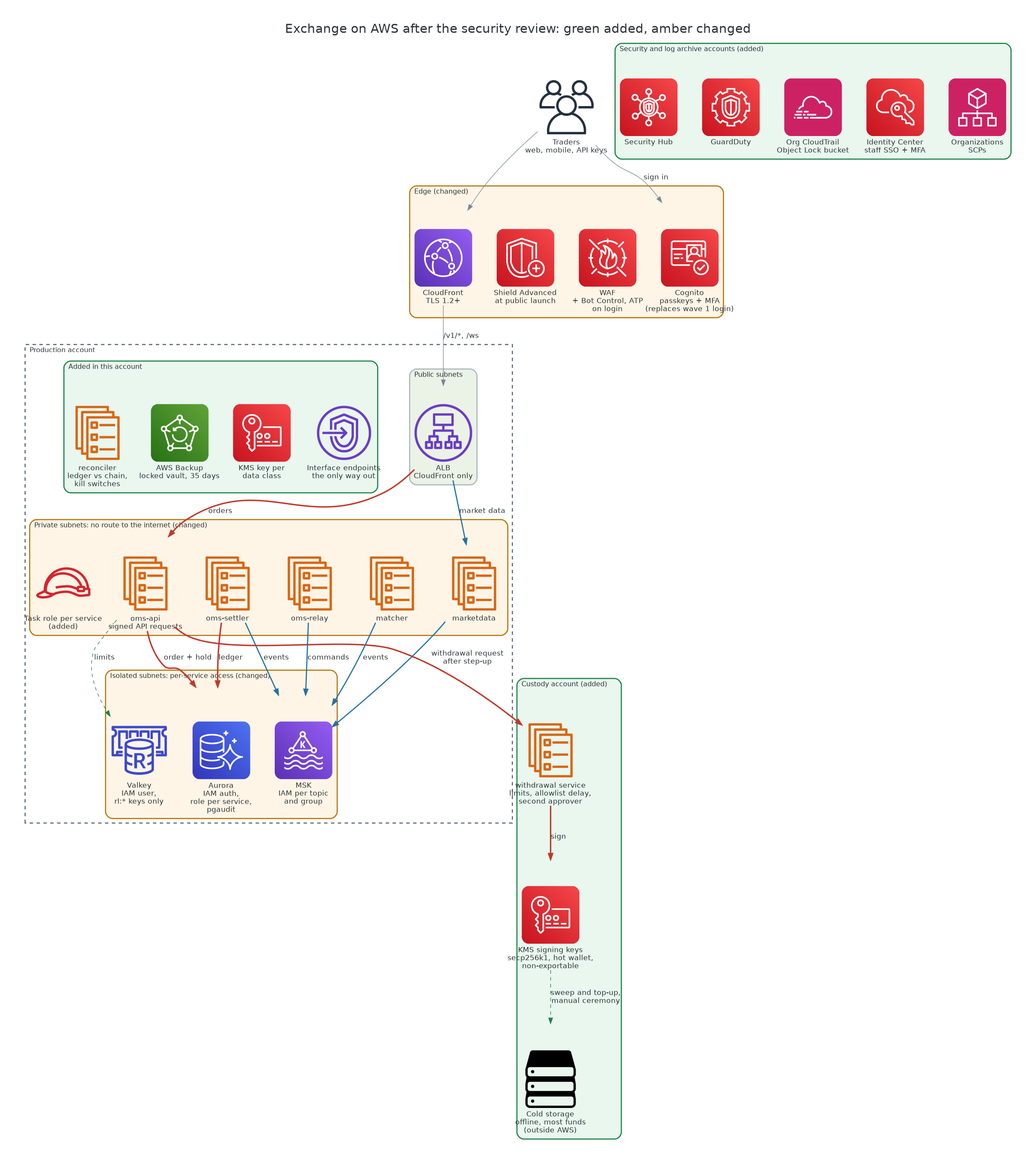
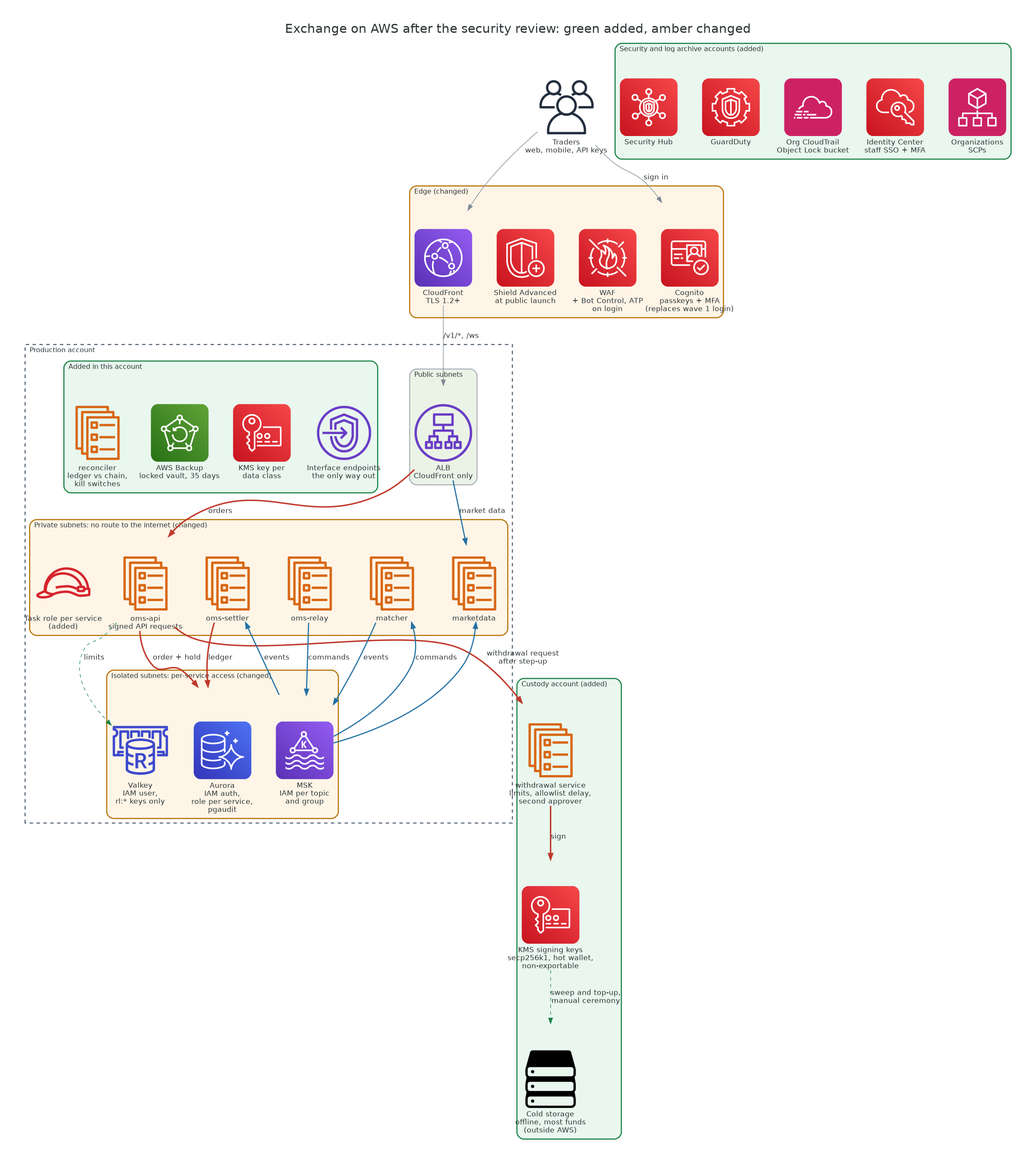
Report the Problem 5 review fixes
Open balance gap and its checks; endpoint and DNS limits; consumers drawn as readers.

diff --git a/src/problem5/diagrams/secure.py b/src/problem5/diagrams/secure.py
@@ -15,7 +15,7 @@ GRAPH = {"fontsize": "22", "fontname": "DejaVu Sans", "pad": "0.5", "nodesep": "
          "ranksep": "0.9", "splines": "spline", "labelloc": "t"}
 NODE = {"fontsize": "13", "fontname": "DejaVu Sans"}
 EDGE = {"fontsize": "11", "fontname": "DejaVu Sans"}
-# Fill marks what the review did: green added, amber changed, grey accepted.
+# Fill marks what the review did: green added, amber changed.
 ADDED = {"bgcolor": "#e9f7ef", "pencolor": "#1e8449", "penwidth": "2"}
 CHANGED = {"bgcolor": "#fef5e7", "pencolor": "#b9770e", "penwidth": "2"}
 ACCOUNT = {"bgcolor": "#ffffff", "pencolor": "#5d6d7e", "penwidth": "2", "style": "dashed"}
@@ -88,10 +88,11 @@ with Diagram("Exchange on AWS after the security review: green added, amber chan
     api >> money("order + hold") >> aurora
     api >> control("limits") >> cache
     relay >> events("commands") >> msk
-    matcher >> events("events", dir="both") >> msk
-    settler >> events("events", dir="back") >> msk
+    msk >> events("commands") >> matcher
+    matcher >> events("events") >> msk
+    msk >> events("events") >> settler
     settler >> money("ledger") >> aurora
-    md >> events(dir="back") >> msk
+    msk >> events() >> md
 
     api >> money("withdrawal request\nafter step-up") >> withdraw
     withdraw >> money("sign") >> hsm

diff --git a/src/problem5/SOLUTION.md b/src/problem5/SOLUTION.md
@@ -7,12 +7,12 @@ the fixes folded into the design. Each change is marked:
 - **Added:** new.
 - **Accepted:** the risk is left as it is, with the reason.
 
-| Part                                                                         | State                                                                                                                                                                            |
-| ---------------------------------------------------------------------------- | -------------------------------------------------------------------------------------------------------------------------------------------------------------------------------- |
-| Network, data tier and per-service identity ([Terraform](../problem1/infra)) | Built and tested on a mocked AWS provider: 15 tests, 27 deliberate breaks all caught. Checkov findings drop from 23 to 7, each skipped on its resource with a reason (section 6) |
-| Ledger roles ([sql/roles.sql](sql/roles.sql))                                | Built and tested against Problem 1's real migrations: of 9 ledger attacks, wave 1's role succeeds at 6 and the restricted role at none (section 6)                               |
-| Accounts, identity, edge, custody, detection                                 | Designed here; not built                                                                                                                                                         |
-| Supply chain: OIDC, pinned actions, signed images, scans                     | Already done in [Problem 4](../problem4/SOLUTION.md) and the Problem 1 CI; not repeated                                                                                          |
+| Part                                                                         | State                                                                                                                                                                                                                               |
+| ---------------------------------------------------------------------------- | ----------------------------------------------------------------------------------------------------------------------------------------------------------------------------------------------------------------------------------- |
+| Network, data tier and per-service identity ([Terraform](../problem1/infra)) | Built and tested on a mocked AWS provider: 15 tests and 4 custom Checkov rules. 37 deliberate breaks, each caught (`make infra-breaks`). Checkov findings drop from 23 to 7, each skipped on its resource with a reason (section 6) |
+| Ledger roles ([sql/roles.sql](sql/roles.sql))                                | Built and tested against Problem 1's real migrations, applied by an Aurora-style master that is not a superuser. Of 9 ledger attacks, wave 1's role gets through 6 and the service roles none (section 6)                           |
+| Accounts, identity, edge, custody, detection                                 | Designed here; not built                                                                                                                                                                                                            |
+| Supply chain: OIDC, pinned actions, signed images, scans                     | Already done in [Problem 4](../problem4/SOLUTION.md) and the Problem 1 CI; not repeated                                                                                                                                             |
 
 ## 1. The updated architecture
 
@@ -72,17 +72,22 @@ Those remain.
 4. **Separate accounts, SSO for staff, and an organisation CloudTrail that nobody can
    edit.** Every incident review starts from that trail. (5.1, 5.8)
 5. **Services stop using the database owner, and each service gets only its own topics and
-   keys.** This is built. (5.4, 5.5)
-6. **No route from the tasks to the internet.** A compromised task cannot send data out or
-   fetch a second stage. This is built. (5.3)
+   keys.** The Terraform and SQL are built; the services' IAM token signers are next. (5.4, 5.5)
+6. **No route from the tasks to the internet, and endpoints that serve only this account.**
+   A compromised task cannot reach an outside server or another account's bucket. This is
+   built. (5.3)
 
 ### Next, in this order
 
 1. Shield Advanced and WAF Bot Control before public launch (5.3).
-2. Signed API keys with scopes, for programmatic traders (5.2).
-3. Locked, cross-region backups (5.8): the in-region locked vault is built.
-4. A price band on market orders (5.7).
-5. An external penetration test, then a bug bounty.
+2. Balances derived from the journal by an owner-run trigger, so no service can update a
+   balance directly; measured against settlement latency first (5.4).
+3. Signed API keys with scopes, for programmatic traders (5.2).
+4. Route 53 Resolver DNS Firewall, which closes DNS tunnelling (5.3).
+5. Backup copies in a separate account under its own key (5.8); the in-region locked vault
+   is built.
+6. A price band on market orders (5.7).
+7. An external penetration test, then a bug bounty.
 
 ### Deferred, with the reason
 
@@ -127,38 +132,57 @@ Those remain.
 
 ### 5.3 Edge and network
 
-| Change                                                                                                    | Type    | Protects against                                                        | Evidence                                 |
-| --------------------------------------------------------------------------------------------------------- | ------- | ----------------------------------------------------------------------- | ---------------------------------------- |
-| Shield Advanced at public launch: DDoS response team, cost protection, layer 7 mitigation                 | Added   | Ransom DDoS during volatility                                           | Design                                   |
-| WAF Bot Control, plus account takeover prevention on the login path                                       | Added   | Scripted sign-ups and stuffing below the rate limits                    | Design                                   |
-| NAT gateways removed. Tasks reach AWS through six interface endpoints and S3 through its gateway endpoint | Changed | Exfiltration, command-and-control callbacks, SSRF reaching the internet | `tasks_reach_aws_only_through_endpoints` |
-| Workload egress only to the endpoint security group and the S3 prefix list; no address ranges             | Changed | The same, at the security group                                         | Same test                                |
-| The VPC's default security group closed                                                                   | Added   | Resources accidentally launched into it talking to each other           | `network_and_keys_are_audited`           |
-| VPC flow logs for all traffic, kept a year, encrypted                                                     | Added   | Investigations with no network record                                   | Same test                                |
+| Change                                                                                                                                      | Type    | Protects against                                                                | Evidence                                 |
+| ------------------------------------------------------------------------------------------------------------------------------------------- | ------- | ------------------------------------------------------------------------------- | ---------------------------------------- |
+| Shield Advanced at public launch: DDoS response team, cost protection, layer 7 mitigation                                                   | Added   | Ransom DDoS during volatility                                                   | Design                                   |
+| WAF Bot Control, plus account takeover prevention on the login path                                                                         | Added   | Scripted sign-ups and stuffing below the rate limits                            | Design                                   |
+| NAT gateways removed. Tasks reach AWS through six interface endpoints and S3 through its gateway endpoint                                   | Changed | Exfiltration, command-and-control callbacks, SSRF reaching the internet         | `tasks_reach_aws_only_through_endpoints` |
+| Workload egress only to the endpoint security group and the S3 prefix list; no address ranges                                               | Changed | The same, at the security group                                                 | Same test; Checkov rules CKV2_P1_1 to 4  |
+| Endpoint policies: interface endpoints accept only this account's principals; S3 reaches only this account's buckets and ECR's layer bucket | Added   | Copying data to an attacker's bucket, or using stolen keys from another account | Same test                                |
+| The VPC's default security group closed                                                                                                     | Added   | Resources accidentally launched into it talking to each other                   | `network_and_keys_are_audited`           |
+| VPC flow logs for all traffic, kept a year, encrypted                                                                                       | Added   | Investigations with no network record                                           | Same test                                |
 
-Removing the NAT gateways is roughly cost-neutral: the endpoints cost $171 a month and the
-NAT gateways cost $129, and endpoint data is $0.01 per GB against NAT's $0.059.
+In production, removing the NAT gateways is roughly cost-neutral: the endpoints cost $171 a
+month and the NAT gateways $129, and endpoint data is $0.01 per GB against NAT's $0.059. In
+staging, with two zones and one NAT gateway, it adds about $70 a month.
+
+With no NAT, two things move to deploy time:
+
+- the collector image is mirrored into ECR;
+- oms-api gets Cognito's signing keys (JWKS) from its configuration, not over the internet.
+
+DNS queries still leave through the VPC resolver until DNS Firewall is in (next, item 4).
 
 ### 5.4 Data stores
 
-| Change                                                                                                                                                  | Type    | Protects against                                                                       | Evidence                                |
-| ------------------------------------------------------------------------------------------------------------------------------------------------------- | ------- | -------------------------------------------------------------------------------------- | --------------------------------------- |
-| Services no longer connect as the table owner. Each has its own login role with data access only; nobody may update, delete or truncate journal entries | Changed | A compromised service disabling the ledger's triggers and rewriting it                 | [sql/test-roles.sh](sql/test-roles.sh)  |
-| Aurora IAM authentication; each task role may connect only as its own Postgres role; the matcher not at all                                             | Changed | Shared database passwords; one service using another's access                          | `each_service_gets_only_its_own_access` |
-| pgaudit logs schema and role changes, plus slow statements; the log is encrypted and kept a year                                                        | Added   | Undetected privilege or schema changes                                                 | `ledger_is_durable_and_private`         |
-| MSK switches from SCRAM to IAM. The relay alone writes `orders.commands`, the matcher alone writes `matcher.events` and holds the transactional id      | Changed | A compromised market data task injecting orders or trades; insiders reading order flow | `each_service_gets_only_its_own_access` |
-| Valkey: the shared token is replaced by an IAM-authenticated oms-api user limited to `rl:*` keys; the default user is off                               | Changed | Any VPC client reading or flushing the cache                                           | `limits_fail_over`                      |
+| Change                                                                                                                                                                                       | Type    | Protects against                                                                       | Evidence                                |
+| -------------------------------------------------------------------------------------------------------------------------------------------------------------------------------------------- | ------- | -------------------------------------------------------------------------------------- | --------------------------------------- |
+| Services no longer connect as the table owner. The relay may touch only the outbox; oms-api and oms-settler get data access only, and nobody may update or delete journal entries            | Changed | A compromised service disabling the ledger's triggers and rewriting history            | [sql/test-roles.sh](sql/test-roles.sh)  |
+| Aurora IAM authentication; each task role may connect only as its own Postgres role; the matcher not at all                                                                                  | Changed | Shared database passwords; one service using another's access                          | `each_service_gets_only_its_own_access` |
+| pgaudit logs schema and role changes, plus slow statements; CloudWatch keeps a year, encrypted, and the log archive keeps 5 years                                                            | Added   | Undetected privilege or schema changes                                                 | `ledger_is_durable_and_private`         |
+| MSK switches from SCRAM to IAM. The relay alone writes `orders.commands`, the matcher alone writes `matcher.events` and holds the transactional id                                           | Changed | A compromised market data task injecting orders or trades; insiders reading order flow | `each_service_gets_only_its_own_access` |
+| Valkey: the shared token is replaced by an IAM-authenticated oms-api user limited to `rl:*` keys, without FLUSHALL, KEYS or other commands that ignore key patterns; the default user is off | Changed | Any VPC client reading or flushing the cache                                           | `limits_fail_over`                      |
 
 Problem 1 already had TLS everywhere, isolated data subnets and encryption at rest. The
 change is who may connect, and as whom.
 
+**Still open:** oms-api and oms-settler update account balances, so either could change one
+without a journal entry. Until balances are derived by an owner-run trigger (next, item 2),
+two checks catch it:
+
+- before signing, the withdrawal service recomputes every account of the user from the
+  journal on the reader;
+- an hourly job does the same for all accounts.
+
+A mismatch blocks the withdrawal and pages.
+
 ### 5.5 Keys and secrets
 
-| Change                                                                                                                                                         | Type    | Protects against                                                                       | Evidence                                         |
-| -------------------------------------------------------------------------------------------------------------------------------------------------------------- | ------- | -------------------------------------------------------------------------------------- | ------------------------------------------------ |
-| Customer managed keys per data class: ledger, stream and logs, each rotating yearly                                                                            | Added   | One key policy or grant opening every store; CloudTrail cannot say which data was used | `network_and_keys_are_audited`                   |
-| Kafka and Valkey passwords are gone, and so are their secrets and their copies in Terraform state. Only Aurora's managed master secret remains, rotated by RDS | Changed | Long-lived passwords leaking from state, logs or environment variables                 | Checkov's rotation rule has nothing left to flag |
-| A task role per service; ECS may assume each only from this account                                                                                            | Added   | Confused deputy; one role for everything                                               | Same test                                        |
+| Change                                                                                                                                                                                                                                                                          | Type    | Protects against                                                                       | Evidence                                         |
+| ------------------------------------------------------------------------------------------------------------------------------------------------------------------------------------------------------------------------------------------------------------------------------- | ------- | -------------------------------------------------------------------------------------- | ------------------------------------------------ |
+| Customer managed keys per data class: ledger, stream and logs, each rotating yearly                                                                                                                                                                                             | Added   | One key policy or grant opening every store; CloudTrail cannot say which data was used | `network_and_keys_are_audited`                   |
+| Kafka and Valkey passwords are gone, and so are their secrets and their copies in Terraform state. Aurora's master secret is rotated by RDS and used only for migrations and break-glass. The custody webhook secret remains, and so does the JWT key until Cognito replaces it | Changed | Long-lived passwords leaking from state, logs or environment variables                 | Checkov's rotation rule has nothing left to flag |
+| A task role per service; ECS may assume each only from this account. Topics are created and configured only by a deploy-time admin role                                                                                                                                         | Added   | Confused deputy; one role for everything; a service changing retention                 | `each_service_gets_only_its_own_access`          |
 
 ### 5.6 Custody and withdrawals
 
@@ -194,54 +218,60 @@ over the PrivateLink path.
 
 ### 5.7 Market integrity
 
-| Change                                                                                                    | Type     | Protects against                                                        |
-| --------------------------------------------------------------------------------------------------------- | -------- | ----------------------------------------------------------------------- |
-| Price band in the matcher: a market order stops at a set percentage from the last trade; the rest cancels | Added    | ADR 0005's open risk: one market sell sweeping a thin book              |
-| The event log is the audit trail: every fill can be replayed from `orders.commands`                       | Kept     | Disputes and manipulation investigations                                |
-| Trade surveillance (wash trading, spoofing)                                                               | Left out | Needs a market operations team and rules; a product, not a control here |
+| Change                                                                                                                         | Type     | Protects against                                                        |
+| ------------------------------------------------------------------------------------------------------------------------------ | -------- | ----------------------------------------------------------------------- |
+| Price band in the matcher: a market order stops at a set percentage from the last trade; the rest cancels                      | Added    | ADR 0005's open risk: one market sell sweeping a thin book              |
+| Kafka keeps commands and events for 7 days, enough for replay from the matcher's snapshot. The journal is the permanent record | Kept     | Disputes and manipulation investigations                                |
+| Trade surveillance (wash trading, spoofing)                                                                                    | Left out | Needs a market operations team and rules; a product, not a control here |
 
 ### 5.8 Detection, audit and recovery
 
-| Change                                                                                                                                | Type  | Protects against                                 | Evidence                                 |
-| ------------------------------------------------------------------------------------------------------------------------------------- | ----- | ------------------------------------------------ | ---------------------------------------- |
-| An organisation CloudTrail goes to the log archive account, in an S3 bucket with Object Lock in compliance mode for 5 years           | Added | Attackers deleting their trail; record retention | Design                                   |
-| GuardDuty, including RDS and ECS runtime monitoring; Security Hub with AWS best practices; AWS Config                                 | Added | Stolen credentials in use, crypto mining, drift  | Design                                   |
-| Pages for root sign-in, IAM or SCP changes, KMS key disable or deletion, security group changes on data stores, vault lock changes    | Added | The changes an attacker makes first              | Design                                   |
-| Daily ledger backups to an AWS Backup vault with a lock: 35 days minimum, and after a 3-day grace period not even root can shorten it | Added | Ransomware or an insider deleting backups        | `ledger_backups_cannot_be_deleted_early` |
-| Cross-region copies of those backups into a locked vault                                                                              | Next  | Region loss together with a compromised account  | Design                                   |
+| Change                                                                                                                                                   | Type  | Protects against                                    | Evidence                                 |
+| -------------------------------------------------------------------------------------------------------------------------------------------------------- | ----- | --------------------------------------------------- | ---------------------------------------- |
+| An organisation CloudTrail goes to the log archive account, in an S3 bucket with Object Lock in compliance mode for 5 years                              | Added | Attackers deleting their trail; record retention    | Design                                   |
+| GuardDuty, including RDS and ECS runtime monitoring; Security Hub with AWS best practices; AWS Config                                                    | Added | Stolen credentials in use, crypto mining, drift     | Design                                   |
+| Pages for root sign-in, IAM or SCP changes, KMS key disable or deletion, security group changes on data stores, vault lock changes                       | Added | The changes an attacker makes first                 | Design                                   |
+| Daily ledger backups to an AWS Backup vault with a lock: 35 days minimum, and after a 3-day grace period not even root can shorten it                    | Added | Ransomware or an insider deleting backups           | `ledger_backups_cannot_be_deleted_early` |
+| Only the deploy and break-glass roles may delete, disable or re-policy a key; otherwise deleting the ledger key would make the locked backups unreadable | Added | An admin destroying backups by destroying their key | `network_and_keys_are_audited`           |
+| Copies of those backups in a separate account under its own key                                                                                          | Next  | A compromised account, or region loss               | Design                                   |
 
 ## 6. Evidence
 
-### Ledger roles: wave 1's role against a restricted one
+### Ledger roles: wave 1's role against the service roles
 
-`make test-roles` applies Problem 1's migrations to a throwaway Postgres 17, then applies
-[roles.sql](sql/roles.sql) and runs each statement in a rolled-back transaction:
+`make test-roles` builds the schema as Aurora would. A master that is not a superuser owns
+the database, runs Problem 1's migrations and [roles.sql](sql/roles.sql). Each statement
+then runs in a rolled-back transaction, and a refusal counts only with SQLSTATE 42501.
 
-| Statement                                                     | Wave 1 role (`exchange`) | Restricted role (`oms_settler`) |
-| ------------------------------------------------------------- | ------------------------ | ------------------------------- |
-| `update` / `delete` / `truncate journal_entries`              | refused by the triggers  | refused                         |
-| Disable the append-only trigger                               | **allowed**              | refused                         |
-| Disable the trigger, then double every amount                 | **allowed**              | refused                         |
-| `set session_replication_role = replica`, then delete rows    | **allowed**              | refused                         |
-| `drop table journal_entries`                                  | **allowed**              | refused                         |
-| Create a table in `public`                                    | **allowed**              | refused                         |
-| Read journals, insert journals, update accounts, write outbox | allowed                  | allowed                         |
+| Statement                                                  | Wave 1 role (`exchange`) | `oms_api`, `oms_settler` | `oms_relay` |
+| ---------------------------------------------------------- | ------------------------ | ------------------------ | ----------- |
+| `update` / `delete` / `truncate journal_entries`           | refused by the triggers  | refused                  | refused     |
+| Disable the append-only trigger, then double every amount  | **allowed**              | refused                  | refused     |
+| `set session_replication_role = replica`, then delete rows | **allowed**              | refused                  | refused     |
+| `drop table journal_entries`; create a table in `public`   | **allowed**              | refused                  | refused     |
+| Grant itself the owner role                                | **allowed**              | refused                  | refused     |
+| Read and insert journals, lock accounts, write the outbox  | allowed                  | allowed                  | refused     |
+| Use a table added by a later migration                     | allowed                  | allowed                  | refused     |
+| Publish and prune the outbox, take the leader lock         | allowed                  | allowed                  | allowed     |
+| Read password hashes                                       | allowed                  | allowed                  | refused     |
+| Change an account balance directly                         | allowed                  | **allowed (open, 5.4)**  | refused     |
 
-Wave 1's triggers stop bugs, not an attacker who holds the owner's credentials. On Aurora,
-the master user is the equivalent of `exchange`. The grants were checked against the
-statements the app needs. Running the full e2e suite on the restricted roles is the next
-step before rollout.
+The test also checks that all three service roles can sign in with IAM (`rds_iam`).
+
+Wave 1's triggers stop bugs, not an attacker who holds the owner's credentials, and Problem
+1's design gave the services the master user. Running the full e2e suite on these roles is
+the step before rollout.
 
 ### Terraform
 
 The security diff is `git diff 147052e -- src/problem1/infra`.
 
-| Measure                                  | Problem 1                 | After this review                                          |
-| ---------------------------------------- | ------------------------- | ---------------------------------------------------------- |
-| Checkov findings without exceptions      | 23 from 15 rules          | 7 from 2 rules, each skipped on its resource with a reason |
-| Tests on a mocked AWS provider           | 10                        | 15                                                         |
-| Deliberate breaks, each caught by a test | 10                        | 27                                                         |
-| Long-lived passwords in Terraform state  | 5 (4 Kafka users, Valkey) | 0                                                          |
+| Measure                                 | Problem 1                 | After this review                                          |
+| --------------------------------------- | ------------------------- | ---------------------------------------------------------- |
+| Checkov findings without exceptions     | 23 from 15 rules          | 7 from 2 rules, each skipped on its resource with a reason |
+| Tests on a mocked AWS provider          | 10                        | 15, plus 4 custom Checkov rules                            |
+| Deliberate breaks, each caught          | 10                        | 37, rerun by `make infra-breaks` and in CI                 |
+| Long-lived passwords in Terraform state | 5 (4 Kafka users, Valkey) | 0                                                          |
 
 The two remaining rules are skipped inline:
 
@@ -253,13 +283,13 @@ The two remaining rules are skipped inline:
 
 Singapore list prices from the AWS Price List API. Estimates are marked.
 
-| Item                                                |                             Per month |
-| --------------------------------------------------- | ------------------------------------: |
-| Interface endpoints, minus NAT gateways             |               about +$40, before data |
-| KMS keys (3 data, plus signing keys)                |                   about $5 + requests |
-| Shield Advanced, at public launch                   |                                $3,000 |
-| GuardDuty, Security Hub, Config, flow logs, backups | low hundreds (estimate; volume-based) |
-| Cognito                                             |               per monthly active user |
+| Item                                                |                                              Per month |
+| --------------------------------------------------- | -----------------------------------------------------: |
+| Interface endpoints, minus NAT gateways             | about +$40 in production, +$70 in staging, before data |
+| KMS keys (3 data, plus signing keys)                |                                    about $5 + requests |
+| Shield Advanced, at public launch                   |                                                 $3,000 |
+| GuardDuty, Security Hub, Config, flow logs, backups |                  low hundreds (estimate; volume-based) |
+| Cognito                                             |                                per monthly active user |
 
 Shield Advanced is the only large item. It is also the one that covers the outage an
 exchange is most likely to be extorted with.
